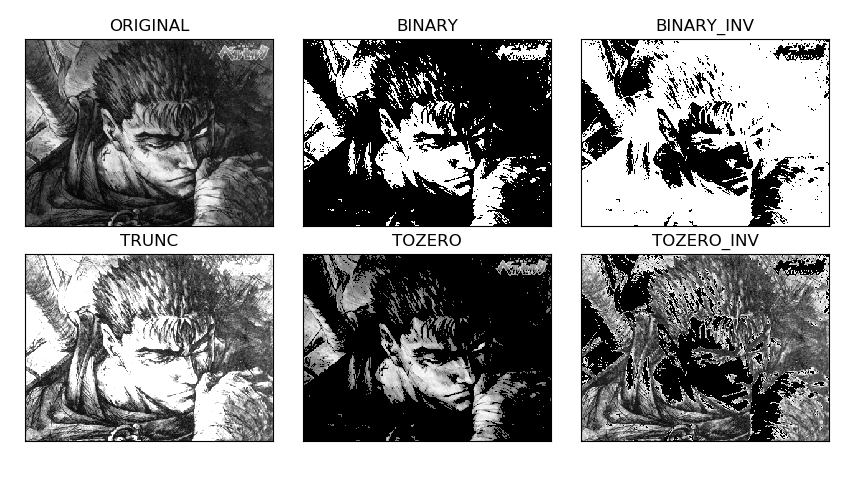
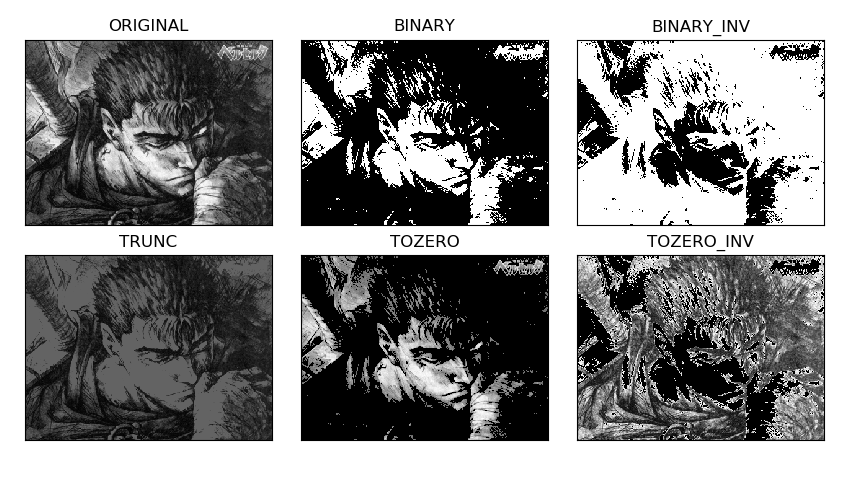
write adaptive threshold

diff --git a/scripts/opencv/opencv_10_threshold_adv.py b/scripts/opencv/opencv_10_threshold_adv.py
@@ -4,13 +4,11 @@ from PyQt5.QtWidgets import *
 from PyQt5 import uic
 import matplotlib.pylab as plt
 
-THRESH_ALL = 100
-
 
 class MyWindow(QMainWindow):
     def __init__(self):
         super().__init__()
-        self.ui = uic.loadUi("thresholding.ui", self)
+        self.ui = uic.loadUi("thresholding_adv.ui", self)
         self.src_img = None             # 원본 영상
         self.res_img = None             # threshold 결과 영상
         self.src_title = "original"     # 원본 영상 제목
@@ -21,6 +19,8 @@ class MyWindow(QMainWindow):
                         self.radioButton_tozero: cv2.THRESH_TOZERO,
                         self.radioButton_tozero_inv: cv2.THRESH_TOZERO_INV,
                         }
+        self.rb_adap_list = [self.radioButton_none, self.radioButton_otsu,
+                             self.radioButton_adap_mean, self.radioButton_adap_gauss]
         self.setup_ui()
 
     def setup_ui(self):
@@ -28,6 +28,7 @@ class MyWindow(QMainWindow):
         self.actionSave.triggered.connect(self.save_file)
         # set default values
         self.radioButton_binary.setChecked(True)
+        self.radioButton_none.setChecked(True)
         self.verticalSlider.setMaximum(255)
         self.verticalSlider.setMinimum(0)
         self.verticalSlider.setValue(100)
@@ -35,6 +36,9 @@ class MyWindow(QMainWindow):
             rbutton.clicked.connect(self.threshold_image)
         self.verticalSlider.valueChanged.connect(self.threshold_image)
         self.pushButton_thresh_types.clicked.connect(self.show_all_types)
+        for rbutton in self.rb_adap_list:
+            rbutton.clicked.connect(self.threshold_image)
+        self.pushButton_adap_methods.clicked.connect(self.show_adap_methods)
 
     def open_file(self):
         filename = QFileDialog.getOpenFileName(filter="JPG files (*.jpg)", directory="../sample_imgs")
@@ -58,11 +62,12 @@ class MyWindow(QMainWindow):
     def threshold_image(self):
         if self.src_img is None:
             return
-        thr_type, threshold = self.get_params()
-        if thr_type == THRESH_ALL:
-            self.res_img = self.threshold_all_types(threshold)
-        else:
+        thr_type, threshold, adaptive = self.get_params()
+        if adaptive is None:
             ret, self.res_img = cv2.threshold(self.src_img, threshold, 255, thr_type)
+            print("threshold", ret)
+        else:
+            self.res_img = cv2.adaptiveThreshold(self.src_img, 255, adaptive, thr_type, 9, 5)
         cv2.imshow(self.res_title, self.res_img)
         cv2.waitKey(1)
 
@@ -71,15 +76,33 @@ class MyWindow(QMainWindow):
         for rbutton, button_type in self.rb_dict.items():
             if rbutton.isChecked():
                 thr_type = button_type
+
+        if self.radioButton_otsu.isChecked():
+            thr_type |= cv2.THRESH_OTSU
+
+        adaptive = None
+        if self.radioButton_adap_mean.isChecked():
+            adaptive = cv2.ADAPTIVE_THRESH_MEAN_C
+        elif self.radioButton_adap_gauss.isChecked():
+            adaptive = cv2.ADAPTIVE_THRESH_GAUSSIAN_C
         threshold = self.verticalSlider.value()
         self.label_threshold.setText(f"Threshold: {threshold}")
-        return thr_type, threshold
+        return thr_type, threshold, adaptive
 
     def show_all_types(self):
         threshold = self.verticalSlider.value()
         imgs = {"ORIGINAL": self.src_img}
         for rbutton, button_type in self.rb_dict.items():
-            ret, res_binary = cv2.threshold(self.src_img, threshold, 255, button_type)
+            if self.radioButton_otsu.isChecked():
+                button_type |= cv2.THRESH_OTSU
+            if self.radioButton_adap_mean.isChecked():
+                ret, res_binary = cv2.adaptiveThreshold(self.src_img, 255,
+                                    cv2.ADAPTIVE_THRESH_MEAN_C, button_type, 9, 0)
+            elif self.radioButton_adap_gauss.isChecked():
+                ret, res_binary = cv2.adaptiveThreshold(self.src_img, 255,
+                                    cv2.ADAPTIVE_THRESH_GAUSSIAN_C, button_type, 9, 0)
+            else:
+                ret, res_binary = cv2.threshold(self.src_img, threshold, 255, button_type)
             imgs[rbutton.text()] = res_binary
         imgs['TRUNC'][0, 0] = 255
 
@@ -92,6 +115,23 @@ class MyWindow(QMainWindow):
         plt.tight_layout()
         plt.show()
 
+    def show_adap_methods(self):
+        threshold = self.verticalSlider.value()
+        imgs = {"None": self.src_img}
+        ret, imgs["Otsu"] = cv2.threshold(self.src_img, threshold, 255, cv2.THRESH_BINARY | cv2.THRESH_OTSU)
+        imgs["Adaptive_Mean"] = cv2.adaptiveThreshold(self.src_img, 255,
+                                    cv2.ADAPTIVE_THRESH_MEAN_C, cv2.THRESH_BINARY, 9, 5)
+        imgs["Adaptive_Gauss"] = cv2.adaptiveThreshold(self.src_img, 255,
+                                    cv2.ADAPTIVE_THRESH_MEAN_C, cv2.THRESH_BINARY, 9, 5)
+
+        for i, (key, value) in enumerate(imgs.items()):
+            plt.subplot(1, 4, i+1)
+            plt.title(key)
+            plt.imshow(value, cmap='gray')
+            plt.xticks([])
+            plt.yticks([])
+        plt.tight_layout()
+        plt.show()
 
 def main():
     app = QApplication(sys.argv)

diff --git a/_posts/2019-05-15-color-space-threshold.md b/_posts/2019-05-15-color-space-threshold.md
@@ -1,6 +1,6 @@
 ---
 layout: post
-title:  "[Python] Color Space and Thresholding"
+title:  "[Python] Color Space and Threshold"
 date:   2019-05-15 09:00:01
 categories: 2019-1-systprog
 ---
@@ -145,11 +145,11 @@ cv2.waitKey()
 
 
 
-# 2. Thresholding
+# 2. Threshold
 
-Thresholding 이란 특정 값을 기준으로 binary 영상을 만드는 기법이다. 영상에서 중간값을 없애고 흑백의 극단으로만 표현하면 사물의 윤곽을 뚜렷하게 나타낼 수 있다. 혹은 글자나 표지판처럼 원래 binary 영상이었으나 사진을 찍으면서 흐릿해진 부분을 다시 선명하게 복원할 때도 사용된다.  
+Threshold란 특정 값을 기준으로 binary 영상을 만드는 기법이다. 영상에서 중간값을 없애고 흑백의 극단으로만 표현하면 사물의 윤곽을 뚜렷하게 나타낼 수 있다. 혹은 글자나 표지판처럼 원래 binary 영상이었으나 사진을 찍으면서 흐릿해진 부분을 다시 선명하게 복원할 때도 사용된다.  
 
-앞서 처음 보여준 예시처럼 numpy 인덱싱을 통해서도 thresholding을 구현할 수 있지만 OpenCV에서 다양한 thresholding 방법을 편리하게 쓸 수 있게 만들어준 `threshold()`라는 함수를 제공한다. 결과를 보면 영상이 흑백으로 단순화된 것을 볼 수 있다. 
+앞서 처음 보여준 예시처럼 numpy 인덱싱을 통해서도 threshold를 구현할 수 있지만 OpenCV에서 다양한 threshold 방법을 편리하게 쓸 수 있게 만들어준 `threshold()`라는 함수를 제공한다. 결과를 보면 영상이 흑백으로 단순화된 것을 볼 수 있다. 
 
 ```python
 import os
@@ -169,7 +169,7 @@ cv2.waitKey()
 
 `threshold` 함수의 입출력 인자는 다음과 같다.
 
-> ret, dst cv2.threshold(src, thresh, maxval, type)  
+> ret, dst = cv2.threshold(src, thresh, maxval, type)  
 >
 > - img: 입력 영상
 > - threshold: 경계값
@@ -181,7 +181,7 @@ cv2.waitKey()
 >   - cv2.THRESH_TOZERO: px > threshold ? px : 0
 >   - cv2.THRESH_TOZERO_INV: px > threshold ? 0 : px
 > - ret: `thresh` 값 출력
-> - dst: thresholding 결과 영상
+> - dst: threshold 결과 영상
 
 
 
@@ -193,7 +193,7 @@ cv2.waitKey()
 
 
 
-다음은 `menubar`의 `Open, Save`부터 구현한 코드다. Text Editor에서 했듯이 `actionOpen`과 `actionSave`를 `triggered` Signal을 통해 각각 `open_file`과 `save_file` 함수와 연결한다. `open_file`에서는 영상 파일을 열어서 클래스 멤버 변수 `self.src_img`에 저장 후 화면에 보여준다. `save_file`에서는 thresholding 결과 영상인 `self.res_img`를 파일로 저장한다.
+다음은 `menubar`의 `Open, Save`부터 구현한 코드다. Text Editor에서 했듯이 `actionOpen`과 `actionSave`를 `triggered` Signal을 통해 각각 `open_file`과 `save_file` 함수와 연결한다. `open_file`에서는 영상 파일을 열어서 클래스 멤버 변수 `self.src_img`에 저장 후 화면에 보여준다. `save_file`에서는 thresholding 결과 영상인 `self.res_img`를 파일로 저장한다.
 
 ```python
 import sys
@@ -201,7 +201,6 @@ import cv2
 from PyQt5.QtWidgets import *
 from PyQt5 import uic
 import matplotlib.pylab as plt
-THRESH_ALL = 100
 
 class MyWindow(QMainWindow):
     def __init__(self):
@@ -246,7 +245,9 @@ if __name__ == "__main__":
 
 
 
-이제 조건에 따른 thresholding을 구현해보자. Text editor와는 다르게 이번에는 모든 radio button과 slider의 Signal을 하나의 함수로 연결한 후 그 함수에서 파라미터를 읽게 해보자. 다수의 radio button을 다룰 때 매번 if-else로 처리하기는 번거롭다. 이를 for문에서 처리할 수 있도록 radio button들을 해당 thresholding type과 함께 짝을 지어 `self.rb_dict`로 저장한다. 모든 radio button의 Slot 함수를 연결할 때도, `get_param()` 함수에서 선택된 radio button을 찾을 때도 다수의 if-else 대신 간단한 for문으로 해결할 수 있다.
+## 2.2 Threshold 구현
+
+이제 조건에 따른 threshold를 구현해보자. Text editor와는 다르게 이번에는 모든 radio button과 slider의 Signal을 하나의 함수로 연결한 후 그 함수에서 파라미터를 읽게 해보자. 다수의 radio button을 다룰 때 매번 if-else로 처리하기는 번거롭다. 이를 for문에서 처리할 수 있도록 radio button들을 해당 threshold type과 함께 짝을 지어 `self.rb_dict`로 저장한다. 모든 radio button의 Slot 함수를 연결할 때도, `get_param()` 함수에서 선택된 radio button을 찾을 때도 다수의 if-else 대신 간단한 for문으로 해결할 수 있다.
 
 ```python
     def __init__(self):
@@ -275,10 +276,7 @@ if __name__ == "__main__":
         if self.src_img is None:
             return
         thr_type, threshold = self.get_params()
-        if thr_type == THRESH_ALL:
-            self.res_img = self.threshold_all_types(threshold)
-        else:
-            ret, self.res_img = cv2.threshold(self.src_img, threshold, 255, thr_type)
+        ret, self.res_img = cv2.threshold(self.src_img, threshold, 255, thr_type)
         cv2.imshow(self.res_title, self.res_img)
         cv2.waitKey(1)
 
@@ -298,13 +296,12 @@ if __name__ == "__main__":
 
 
 
-이 그림은 MATLAB의 plot 기능을 모방한 `matplotlib`이라는 패키지를 통해 만든 것이다. 앞서 사용하지 않았던 `checkBox_all`을 클릭하면 모든 방식의 thresholding을 시도하여 한 창에 보여주도록 하였다. `matplotlib`은 아직 배우지 않았으니 다음 코드는 참고로만 봐두자.
+이 그림은 MATLAB의 plot 기능을 모방한 `matplotlib`이라는 패키지를 통해 만든 것이다. 앞서 사용하지 않았던 `checkBox_all`을 클릭하면 모든 방식의 threshold를 시도하여 한 장에 보여주도록 하였다. `matplotlib`은 아직 배우지 않았으니 다음 코드는 참고로만 봐두자.
 
 ```python
     def setup_ui(self):
         # .. 중략 ..
-        self.checkBox_all_types.toggled.connect(self.show_all_types)
-
+         self.pushButton_thresh_types.clicked.connect(self.show_all_types)
     def show_all_types(self, checked):
         if not checked:
             return
@@ -317,6 +314,126 @@ if __name__ == "__main__":
 
         for i, (key, value) in enumerate(imgs.items()):
             plt.subplot(2, 3, i+1)
+            plt.title(key)
+            plt.imshow(value, cmap='gray')
+            plt.xticks([])
+            plt.yticks([])
+        plt.tight_layout()
+        plt.show()
+```
+
+
+
+## 2.3 Threshold 자동화
+
+### Otsu의 알고리즘
+
+Threshold를 할 때 가장 중요한 것은 경계 값(`thresh`)을 얼마로 정하느냐이다. 적절한 경계 값을 찾기 위해서는 여러 경계 값을 반복적으로 시도해보며 찾아야 한다. 이러한 과정을 자동화 해주는 것이 Otsu의 알고리즘이다. Otsu의 알고리즘은 임의로 정한 경계 값을 기준으로 영상을 두 부류로 나눈 후 두 가지 명암 분포가 비슷해지도록 하는 경계 값을 선택한다. OpenCV에는 알고리즘이 구현되어 있어서 `threshold()`의 `type`인자에 `cv2.THRESH_OTSU`를 추가하면 경계 값을 자동으로 찾아준다. 이때 `thresh` 인자에는 아무 값이나 넣어도 되고 출력인자인 `ret`으로 자동으로 찾은 경계 값이 출력된다. 아래 코드는 `cv2.THRESH_BINARY` 타입에 Otsu의 알고리즘을 적용한 것이다.
+
+```python
+ret, res_img = cv2.threshold(src_img, 0, 255, cv2.THRESH_BINARY | cv2.THRESH_OTSU)
+```
+
+
+
+### Adaptive Threshold
+
+원본 영상에 조명이 일정하지 않거나 배경색이 여러 가지인 경우에는 아무리 경계 값을 바꿔봐도 좋은 결과를 얻기 어렵다. 영상의 다양한 배경에 대처하기 위해서는 영상을 여러 영역으로 나눈 다음 각 픽셀이 해당 영역에 비해서 상대적으로 얼마나 높은지를 확인해야 한다. 이렇게 영역 별로 다른 threshold 값을 주는 것을 adaptive threshold 라고 한다. OpenCV에서는 `adaptiveThreshold()` 라는 함수를 제공한다.
+
+> ret, dst = adaptiveThreshold(src, maxValue, adaptiveMethod, thresholdType, blockSize, C)
+>
+> 	- src: 입력 영상
+> 	- maxValue: 경계 값을 만족하는 픽셀에 적용할 값
+>  - adaptiveMethod: 경계 값 결정 방법
+>    	- cv2.ADAPTIVE_THRESH_MEAN_C: 주변 영역의 평균 값으로 결정
+>    	- cv2.ADAPTIVE_THRESH_GAUSSIAN_C: 주변 영역의 Gaussian 가중 평균 값으로 결정 (가까울 수록 높은 가중치)
+> 	- thresholdType: threshold 적용 방법 (`threshold()` 와 동일)
+> 	- blockSize: 영역의 크기 (홀수만 가능 3, 5, 7, ...)
+> 	- C: 자동으로 계산된 경계 값에 가감할 상수(음수 가능)
+
+
+
+### GUI에 적용
+
+Threshold 자동화 기능을 방금 코드에 적용해보자. 적응형 알고리즘은기본 threshold 타입과는 독립적으로 작용하므로 새로운 버튼 그룹을 만들었다.
+
+![threshold-gui-adv](/ian-lecture/assets/opencv-color/threshold-gui-adv.png)
+
+- `None`: 적응형 알고리즘을 적용하지 않음
+- `OTSU`: Otsu 알고리즘으로 전역 경계 값 결정
+- `ADAPTIVE_MEAN`: `adaptiveThreshold()` 함수에서 `cv2.ADAPTIVE_THRESH_MEAN_C` 사용
+- `ADAPTIVE_GAUSS`: `adaptiveThreshold()` 함수에서 `cv2.ADAPTIVE_THRESH_GAUSSIAN_C` 사용
+
+코드에서도 다음과 같이 적응형 알고리즘을 적용할 수 있도록 수정한다. 새로 추가된 radio button도 모두 `threshold_image()` 함수로 연결한다. `get_params()` 함수에서는 `adaptiveThreshold()` 함수를 위한 출력 인자 `adaptive`를 추가하였다.
+
+```python
+# import ...
+class MyWindow(QMainWindow):
+    def __init__(self):
+        super().__init__()
+        # .. 중략 ..
+        self.rb_adap_list = [self.radioButton_none, self.radioButton_otsu,
+                             self.radioButton_adap_mean, self.radioButton_adap_gauss]
+        self.setup_ui()
+
+    def setup_ui(self):
+        # .. 중략 ..
+        for rbutton in self.rb_adap_list:
+            rbutton.clicked.connect(self.threshold_image)
+
+    def threshold_image(self):
+        if self.src_img is None:
+            return
+        thr_type, threshold, adaptive = self.get_params()
+        if adaptive is None:
+            ret, self.res_img = cv2.threshold(self.src_img, threshold, 255, thr_type)
+            print("threshold", ret)
+        else:
+            self.res_img = cv2.adaptiveThreshold(self.src_img, 255, adaptive, thr_type, 9, 5)
+        cv2.imshow(self.res_title, self.res_img)
+        cv2.waitKey(1)
+
+    def get_params(self):
+        thr_type = cv2.THRESH_BINARY
+        for rbutton, button_type in self.rb_dict.items():
+            if rbutton.isChecked():
+                thr_type = button_type
+
+        if self.radioButton_otsu.isChecked():
+            thr_type |= cv2.THRESH_OTSU
+
+        adaptive = None
+        if self.radioButton_adap_mean.isChecked():
+            adaptive = cv2.ADAPTIVE_THRESH_MEAN_C
+        elif self.radioButton_adap_gauss.isChecked():
+            adaptive = cv2.ADAPTIVE_THRESH_GAUSSIAN_C
+        threshold = self.verticalSlider.value()
+        self.label_threshold.setText(f"Threshold: {threshold}")
+        return thr_type, threshold, adaptive
+```
+
+
+
+다음은 네 가지 적응형 알고리즘 옵션을 적용한 결과이다. 영역에 따라 영상의 조명상태가 달라지기 때문에 이러한 영상에서 숫자를 잘 보려면 `adaptiveThreshold()` 함수를 써야한다. 아래 이미지를 만든 코드도 붙인다.
+
+![thresh-adap](/ian-lecture/assets/opencv-color/thresh-adap.png)
+
+```python
+    def setup_ui(self):
+        # .. 중략 ..
+        self.pushButton_adap_methods.clicked.connect(self.show_adap_methods)
+
+    def show_adap_methods(self):
+        threshold = self.verticalSlider.value()
+        imgs = {"None": self.src_img}
+        ret, imgs["Otsu"] = cv2.threshold(self.src_img, threshold, 255, cv2.THRESH_BINARY | cv2.THRESH_OTSU)
+        imgs["Adaptive_Mean"] = cv2.adaptiveThreshold(self.src_img, 255,
+                                    cv2.ADAPTIVE_THRESH_MEAN_C, cv2.THRESH_BINARY, 9, 5)
+        imgs["Adaptive_Gauss"] = cv2.adaptiveThreshold(self.src_img, 255,
+                                    cv2.ADAPTIVE_THRESH_MEAN_C, cv2.THRESH_BINARY, 9, 5)
+
+        for i, (key, value) in enumerate(imgs.items()):
+            plt.subplot(1, 4, i+1)
             plt.title(key)
             plt.imshow(value, cmap='gray')
             plt.xticks([])
